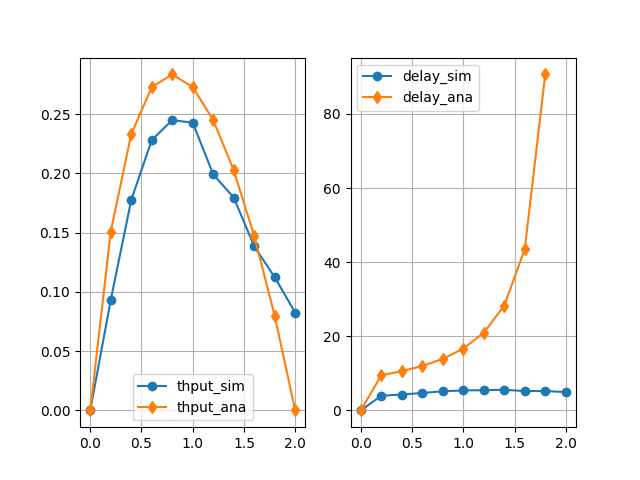
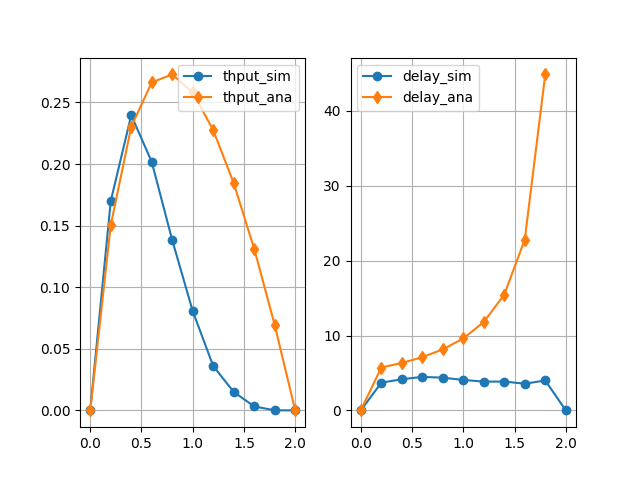
update code

diff --git a/utils2.py b/utils2.py
@@ -1,0 +1,133 @@
+from collections import deque
+import numpy as np 
+class Packet: 
+    def __init__(self, src, t_in): 
+        self.src = src 
+        self.t_in = t_in 
+        self.t_out = 0
+        self.N_T = 0
+    
+    def set_tout(self, t_out): 
+        self.t_out = t_out
+
+    def get_delay(self): 
+        return (self.t_out - self.t_in + 1)
+    
+    def is_sent(self): 
+        self.N_T = self.N_T + 1
+    
+    def set_tin_R(self, t_in): 
+        self.t_in = t_in 
+    
+    def get_src(self):
+        return self.src 
+
+
+class EndNode: 
+    def __init__(self, name, g_a, g_r): 
+        self.qnode = deque()
+        self.ga = g_a 
+        self.gr = g_r 
+        self.name = name
+    
+
+    def send_a_packet(self, id): 
+        is_new_pkt = np.random.rand() < self.ga 
+        is_send = is_new_pkt or (len(self.qnode) > 0 and np.random.rand() < self.gr)
+        
+        A_pk = Packet(self.name, -1)
+        if is_send: 
+            A_pk = Packet(self.name, id) if is_new_pkt else self.qnode.pop()
+            A_pk.is_sent() # remember the number of trans and retransmissions
+
+        return is_send, A_pk 
+    
+    def enqueue_a_packet(self, packet): # collision happened 
+        self.qnode.appendleft(packet)
+    
+
+class RelayNode: 
+    def __init__(self, q): 
+        self.vA = deque()
+        self.vB = deque()
+        self.q = q 
+    
+    def enqueue(self, pk, t_in): 
+        if t_in != -1: 
+            pk.set_tin_R(t_in) # set time entering the relay node R
+
+        if pk.get_src() == 'A': 
+            self.vA.append(pk)
+        else: 
+            self.vB.append(pk)
+    
+    def enqueue_collision(self, pk): 
+        if pk.get_src() == 'A': 
+            self.vA.appendleft(pk)
+        else: 
+            self.vB.appendleft(pk)
+
+    def get_delay_pkt(self, pk, t_out): 
+        delay = pk.N_T + (t_out - pk.t_in + 1) # ( # trans + retrans from end node ) + ( time in R's buffer) 
+        return delay
+
+    def send_a_packet(self): 
+        size_vA = len(self.vA) 
+        size_vB = len(self.vB)
+        is_send = (size_vA > 0 or size_vB > 0) and (np.random.rand() < self.q)
+
+        pk_from_A = Packet('R', -1)
+        pk_from_B = Packet('R', -1)
+        
+        if is_send: 
+            pk_from_A = self.vA.pop() if size_vA > 0 else pk_from_A 
+            pk_from_B = self.vB.pop() if size_vB > 0 else pk_from_B
+
+        return is_send, pk_from_A, pk_from_B
+
+
+def run(): 
+    A = EndNode('A', 0.5, 0.5)
+    is_send, pk = A.send_a_packet(1)
+    print(f'issend = {is_send} pkinfo = {pk.t_in}-{pk.N_T}')
+    A.enqueue_a_packet(pk)
+    is_send, pk = A.send_a_packet(2)
+    print(f'issend = {is_send} pkinfo = {pk.t_in}-{pk.N_T}')
+    A.enqueue_a_packet(pk)
+    is_send, pk = A.send_a_packet(3)
+    print(f'issend = {is_send} pkinfo = {pk.t_in}-{pk.N_T}')
+    A.enqueue_a_packet(pk)
+    is_send, pk = A.send_a_packet(4)
+    print(f'issend = {is_send} pkinfo = {pk.t_in}-{pk.N_T}')
+
+    A.enqueue_a_packet(pk)
+    is_send, pk = A.send_a_packet(5)
+    print(f'issend = {is_send} pkinfo = {pk.t_in}-{pk.N_T}')
+
+    A.enqueue_a_packet(pk)
+    is_send, pk = A.send_a_packet(6)
+    print(f'issend = {is_send} pkinfo = {pk.t_in}-{pk.N_T}')
+
+    A.enqueue_a_packet(pk)
+    is_send, pk = A.send_a_packet(7)
+    print(f'issend = {is_send} pkinfo = {pk.t_in}-{pk.N_T}')
+
+    A.enqueue_a_packet(pk)
+    is_send, pk = A.send_a_packet(8)
+    print(f'issend = {is_send} pkinfo = {pk.t_in}-{pk.N_T}')
+
+    A.enqueue_a_packet(pk)
+    is_send, pk = A.send_a_packet(9)
+    print(f'issend = {is_send} pkinfo = {pk.t_in}-{pk.N_T}')
+
+    A.enqueue_a_packet(pk)
+    is_send, pk = A.send_a_packet(10)
+    print(f'issend = {is_send} pkinfo = {pk.t_in}-{pk.N_T}')
+
+    A.enqueue_a_packet(pk)
+    is_send, pk = A.send_a_packet(11)
+    print(f'issend = {is_send} pkinfo = {pk.t_in}-{pk.N_T}')
+
+
+
+run()

diff --git a/NetworkCoding2.py b/NetworkCoding2.py
@@ -1,4 +1,4 @@
-import utils 
+import utils2 
 import numpy as np 
 from matplotlib import pyplot as plt 
 
@@ -32,14 +32,14 @@ class NetworkCoding:
 
 
         for g in self._g:
-            ga = g 
+            ga = g
             gr = g
 
             pass_pkt = 0 
             delay_pkt = 0 
-            A = utils.EndNode('A', ga, gr) 
-            B = utils.EndNode('B', ga, gr)
-            R = utils.RelayNode(self._q)
+            A = utils2.EndNode('A', ga, gr) 
+            B = utils2.EndNode('B', ga, gr)
+            R = utils2.RelayNode(self._q)
 
             for islot in range(self.no_slots): 
                 # Node A 
@@ -50,6 +50,7 @@ class NetworkCoding:
 
                 # Node R
                 R_is_send, pk_from_A, pk_from_B = R.send_a_packet()
+                
                 vA_not_empty = pk_from_A.t_in != -1  
                 vB_not_empty = pk_from_B.t_in != -1 
 
@@ -78,21 +79,21 @@ class NetworkCoding:
                             delay_pkt = delay_pkt + R.get_delay_pkt(pk_from_B, islot)
                             pass_pkt = pass_pkt + 1 
                     
-                    elif B_is_send and A_is_send == False: # collision between R and A
+                    elif A_is_send and B_is_send == False: # collision between R and A
                         if vB_not_empty: # R sent a coding packet from B and A || a native packet form B 
                             delay_pkt = delay_pkt + R.get_delay_pkt(pk_from_B, islot)
                             pass_pkt = pass_pkt + 1
                         if vA_not_empty: 
-                            R.enqueue(pk_from_A, -1)
-                            B.enqueue_a_packet(B_pk)
+                            R.enqueue_collision(pk_from_A)
+                            A.enqueue_a_packet(A_pk)
                             
-                    elif B_is_send == False and A_is_send == True: 
-                        if vA_not_empty: 
+                    elif A_is_send == False and B_is_send == True: 
+                        if vA_not_empty != 0: 
                             delay_pkt = delay_pkt + R.get_delay_pkt(pk_from_A, islot)
                             pass_pkt = pass_pkt + 1
                         if vB_not_empty: 
-                            R.enqueue(pk_from_B, -1)
-                            A.enqueue_a_packet(A_pk)
+                            R.enqueue_collision(pk_from_B)
+                            B.enqueue_a_packet(B_pk)
 
 
             throuput_sim.append(pass_pkt/self.no_slots)
@@ -120,27 +121,9 @@ class NetworkCoding:
         ax2.grid()
         ax2.legend()
         # plt.show()
-        plt.savefig(f'./th_delay_{self.no_slots}.png')
+        plt.savefig(f'./th_delay_2_{self.no_slots}.png')
 
 
 NC = NetworkCoding()
 NC.run()
-print(NC.delay_coding(0.5, 1, 0.6)) 
-
-
-
-                
-            
-
-
-
-
-
-
-                 
-
-            
-            
-            
-
-            
+print(NC.delay_coding(0.5, 1, 0.6))            

diff --git a/utils.py b/utils.py
@@ -1,4 +1,4 @@
-from collections import deque
+from queue import Queue 
 import numpy as np 
 class Packet: 
     def __init__(self, src, t_in): 
@@ -9,9 +9,6 @@ class Packet:
     
     def set_tout(self, t_out): 
         self.t_out = t_out
-
-    def get_delay(self): 
-        return (self.t_out - self.t_in + 1)
     
     def is_sent(self): 
         self.N_T = self.N_T + 1
@@ -25,31 +22,34 @@ class Packet:
 
 class EndNode: 
     def __init__(self, name, g_a, g_r): 
-        self.qnode = deque()
+        self.qnode = Queue()
         self.ga = g_a 
         self.gr = g_r 
         self.name = name
     
+    def get_queue_length(self): 
+        return self.qnode.qsize()
+    
 
     def send_a_packet(self, id): 
         is_new_pkt = np.random.rand() < self.ga 
-        is_send = is_new_pkt or (len(self.qnode) > 0 and np.random.rand() < self.gr)
+        is_send = is_new_pkt or (self.get_queue_length() > 0 and np.random.rand() < self.gr)
         
         A_pk = Packet(self.name, -1)
         if is_send: 
-            A_pk = Packet(self.name, id) if is_new_pkt else self.qnode.pop()
+            A_pk = Packet(self.name, id) if is_new_pkt else self.qnode.get()
             A_pk.is_sent() # remember the number of trans and retransmissions
 
         return is_send, A_pk 
     
     def enqueue_a_packet(self, packet): # collision happened 
-        self.qnode.append(packet)
+        self.qnode.put(packet)
     
 
 class RelayNode: 
     def __init__(self, q): 
-        self.vA = deque()
-        self.vB = deque()
+        self.vA = Queue()
+        self.vB = Queue()
         self.q = q 
     
     def enqueue(self, pk, t_in): 
@@ -57,9 +57,9 @@ class RelayNode:
             pk.set_tin_R(t_in) # set time entering the relay node R
 
         if pk.get_src() == 'A': 
-            self.vA.append(pk)
+            self.vA.put(pk)
         else: 
-            self.vB.append(pk)
+            self.vB.put(pk)
         
 
     def get_delay_pkt(self, pk, t_out): 
@@ -67,27 +67,21 @@ class RelayNode:
         return delay
 
     def send_a_packet(self): 
-        size_vA = len(self.vA) 
-        size_vB = len(self.vB)
+        size_vA = self.vA.qsize() 
+        size_vB = self.vB.qsize()
         is_send = (size_vA > 0 or size_vB > 0) and (np.random.rand() < self.q)
 
         pk_from_A = Packet('R', -1)
         pk_from_B = Packet('R', -1)
         
         if is_send: 
-            pk_from_A = self.vA.pop() if size_vA > 0 else pk_from_A 
-            pk_from_B = self.vB.pop() if size_vB > 0 else pk_from_B
+            pk_from_A = self.vA.get() if size_vA > 0 else pk_from_A 
+            pk_from_B = self.vB.get() if size_vB > 0 else pk_from_B
 
         return is_send, pk_from_A, pk_from_B
 
 
 def run(): 
-    pk = Packet('A', 3)
-    R = RelayNode() 
-    print('running')
-    R.vA.append(pk)
-    pk2 = R.vA[0]
-    R.vA.pop()    
-    print(f'pk2 src = {pk2.src} t_out = {pk2.t_out} t_in = {pk2.t_in}' )
+    A = EndNode('A', 0.5, 0.5)
 
 # run()

diff --git a/slottedAloha.py b/slottedAloha.py
@@ -175,7 +175,7 @@ class SlottedAloha:
 
         gr = np.arange(0, 1.1, 0.1)
         ga = np.arange(0, 1.1, 0.1)
-        q = 0.7 
+        q = 0.6 
         g_arr = []
         legend_arr = []
 
@@ -211,6 +211,26 @@ class SlottedAloha:
 
         plt.savefig(f'./ga_gr/gr_g_relation.png')
 
+    def run2(self):
+        gr = np.arange(0, 1.1, 0.1)
+        ga = np.arange(0, 1.1, 0.1)
+        q = 0.8
+        g_arr = []
+
+        for ga_idx in ga: 
+            g_arr = [] 
+            for gr_idx in gr: 
+                g = self.ga_g_relation(gr_idx, ga_idx, q)
+                g_arr.append(g)
+            
+            plt.plot(gr, g_arr, '-o', label='{:.1f}'.format(ga_idx))
+             
+            plt.xlabel('g_r')
+            plt.ylabel('g')
+            plt.yticks(np.arange(0, 1.1, step=0.1))
+            plt.grid()
+            plt.legend()
+            plt.savefig(f'./ga_gr/gr_g_{q}.png')
         
 
             # plt.show()
@@ -222,4 +242,6 @@ class SlottedAloha:
 SA = SlottedAloha()
 # SA.non_coding()
 # SA.coding_plot()
-SA.run()
+# SA.run()
+SA.run2()
+# print(np.arange(0, 1.1, step=0.1))
